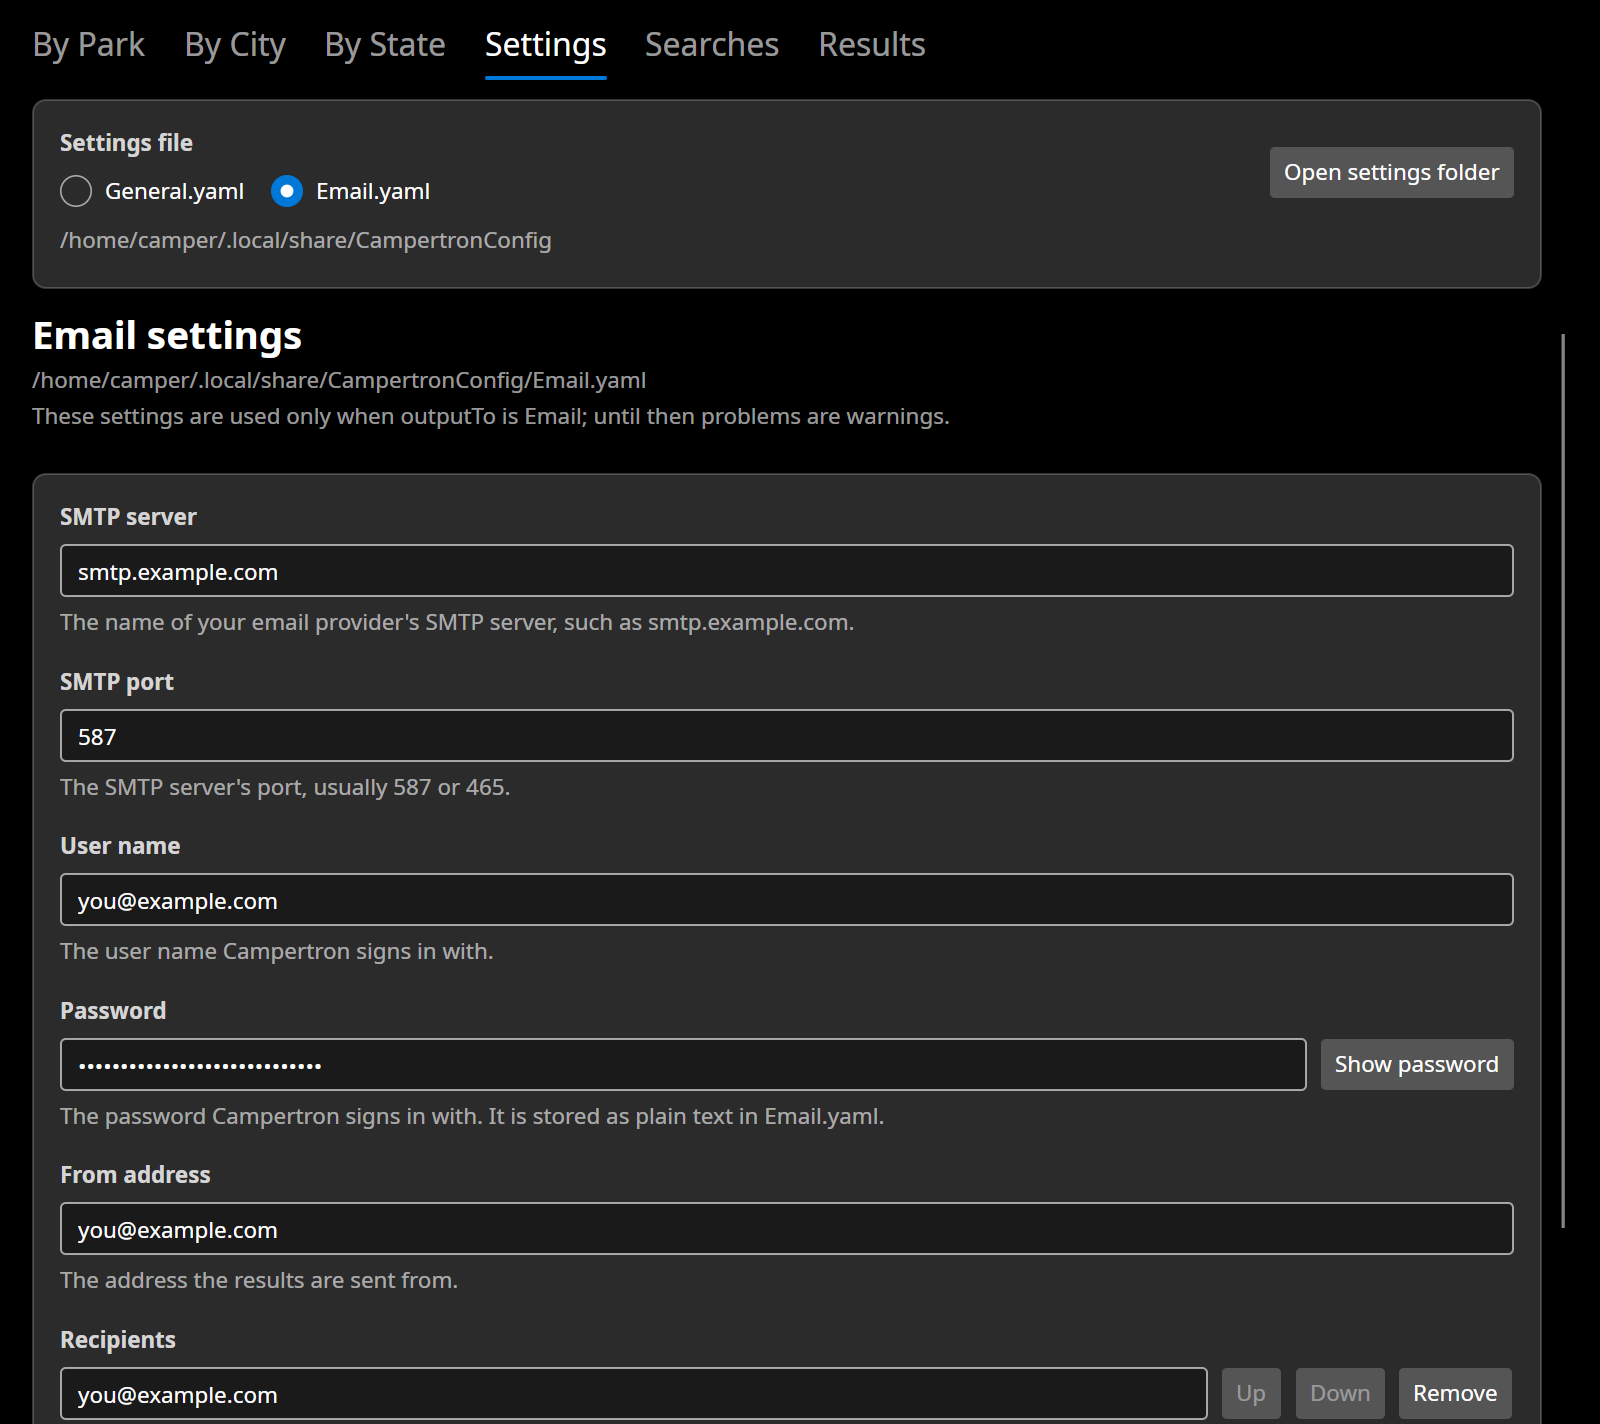
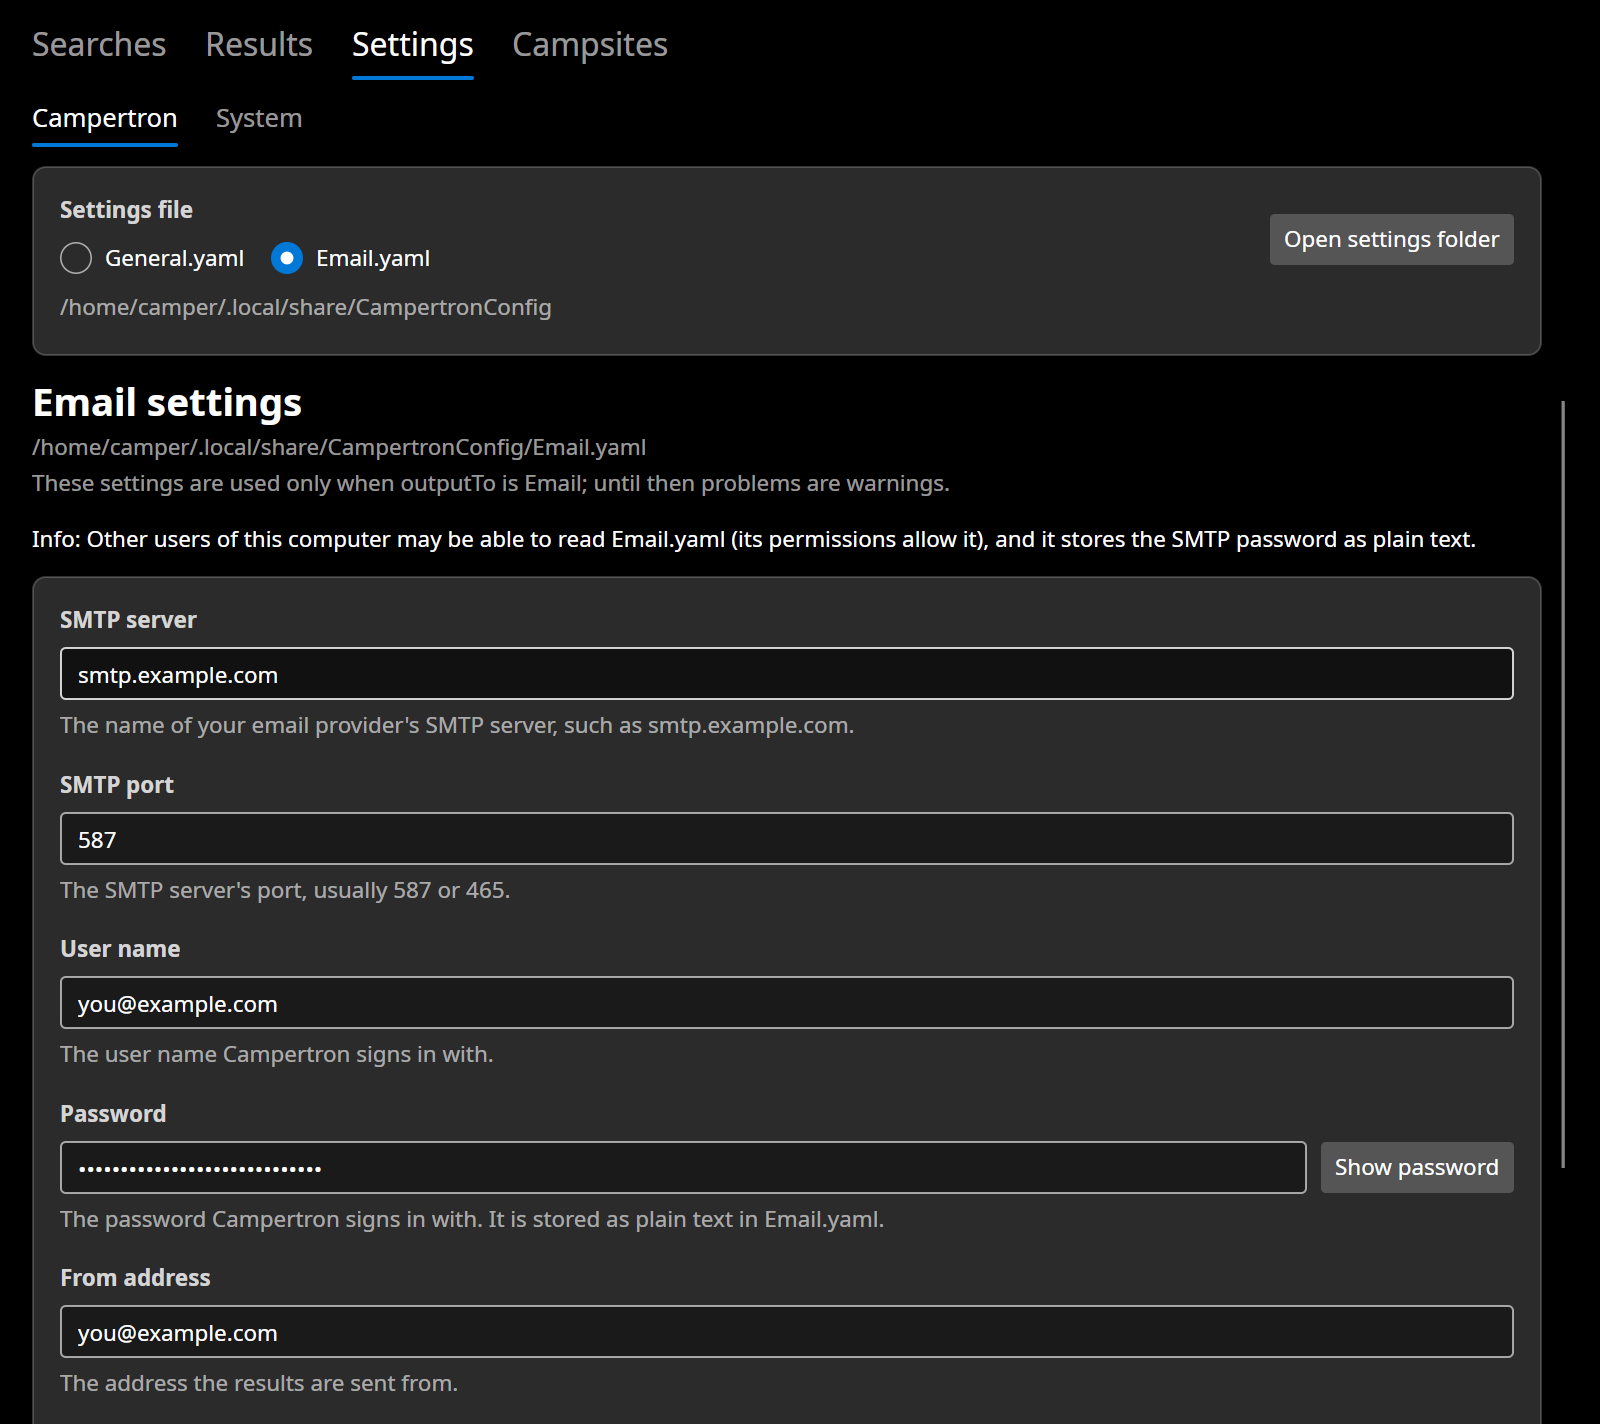
README: the four GUI tabs, Settings > System and new screenshots
The GUI section follows the window's new order: Searches (ss11), Results
(ss9), Settings > Campertron (ss10), Settings > System with the theme
(ss12, new) and Campsites > By Park (ss6). All five are real captures of the
current application at 1000x890 and scale 1.6, committed without resampling;
ss12 is cut below its card. The theme choice and where it is kept are
described, and the lookup is referred to as the Campsites tab. The pinned
preview.1 download names are unchanged.

Changed region(s): [[0.0, 0.0, 0.9688, 1.0], [0.8125, 0.7107, 0.9688, 0.7725], [0.8125, 0.8034, 0.9688, 0.8652]]

diff --git a/README.md b/README.md
@@ -56,23 +56,27 @@ With `outputTo: HtmlFile`, **Search** opens the results as one web page instead:
 
 <img src="docs/ss5.png" width="470" alt="View Config screen showing the Campertron version, the Config and Cache folders, the output type, the number of search files, how long ago the campground data was refreshed, the operating system and the .NET version">
 
-**CampertronGUI** opens on its campground lookup. Pick a park, a city or a state, then a campground, and it shows the campground's ID and details. Each campground in a list shows its location and ID, so campgrounds with the same name are easy to tell apart. The ID is what you put in a search: select it, or press **Copy ID**. In a list you can also type the first letters of a name to jump to it.
+**CampertronGUI** has four tabs: **Searches**, **Results**, **Settings** and **Campsites**. It opens on **Searches**, which lists your search files and whether each one runs, and edits them: every setting of a search, the dates and filters as lists, and the campground chosen from a list of every reservable campground (search by name, city, state, park or ID) or by its exact ID. **Create search** makes a new search from the example and **Save as** saves a copy under a new name; neither writes over an existing file, and the GUI never deletes a file.
 
-<img src="docs/ss6.png" width="800" alt="CampertronGUI in the dark theme with its six tabs By Park, By City, By State, Settings, Searches and Results. On the By Park tab, Zion National Park and WATCHMAN CAMPGROUND, SPRINGDALE, UT, ID 232445 are selected; the details show campground ID 232445 with a Copy ID button, the phone number and email address, and the start of the description">
-
-The **Settings** tab edits `General.yaml` and `Email.yaml`: it shows what each setting does and any problem, previews exactly the lines a save changes (never the password) and keeps your comments and a backup of the previous version. The email password is hidden unless you choose **Show password**.
-
-<img src="docs/ss10.png" width="800" alt="CampertronGUI in the dark theme on the Settings tab with Email.yaml selected (example values): the settings folder, then the email settings SMTP server smtp.example.com, SMTP port 587, user name, a hidden password with a Show password button, from address and one recipient, each with a short explanation">
-
-The **Searches** tab lists your search files and whether each one runs, and edits them the same way: every setting of a search, the dates and filters as lists, and the campground chosen from a list of every reservable campground (search by name, city, state, park or ID) or by its exact ID. **Create search** makes a new search from the example and **Save as** saves a copy under a new name; neither writes over an existing file, and the GUI never deletes a file.
-
-<img src="docs/ss11.png" width="800" alt="CampertronGUI in the dark theme on the Searches tab: the search files South Rim weekends.yaml (enabled), Watchman two nights.yaml (disabled) and Zion tent sites.yaml (enabled, selected), each with its name, its campground and No problems; the New search file box with the Create search button; and the start of the selected search's settings, with Run this search (autoRun) checked and the name Zion non-group tent friendly sites">
+<img src="docs/ss11.png" width="800" alt="CampertronGUI in the dark theme with its four tabs Searches (selected), Results, Settings and Campsites. The Searches tab lists the search files South Rim weekends.yaml (enabled), Watchman two nights.yaml (disabled) and Zion tent sites.yaml (enabled, selected), each with its search name, its campground and No problems; then the New search file box with the Create search button, and the start of the selected search's settings, with Run this search (autoRun) checked and the name Zion non-group tent friendly sites">
 
 The **Results** tab lists your search files with a check box each: those that run at startup are selected, the others are listed as "Not run at startup" and run only if you select them; a file that can't be searched, or that has unsaved changes in the Searches tab, says why. **Start** searches the selected files once, with the console's own search, and shows its progress; **Cancel** stops it. The results show each search's status, its counts and which months were checked (a month recreation.gov didn't answer is listed as not checked, never as fully booked), then the open sites grouped by date, or by site with their dates for consecutive nights. Choose a site to open its booking page on recreation.gov or copy its ID or link. If recreation.gov limits the requests, the search stops, keeps what it found and **Start** waits five minutes. The Results tab never changes your files, never sends email and doesn't use `Camp.History`, so it always shows every open site that matches right now.
 
-<img src="docs/ss9.png" width="800" alt="CampertronGUI in the dark theme on the Results tab after a search of the two enabled example searches: Mathers campground weekend sites is checked and Complete with 862 openings found; the status Finished: 3,443 openings found in 2 searches; the results of Zion non-group tent friendly sites with 2,581 openings at 172 campsites on 28 nights, November 2026 and December 2026 checked; Tuesday, November 17, 2026 with 64 campsites, among them sites B025 and B059 (selected) with their loop, type and equipment; and the buttons Open booking page, Copy campsite ID and Copy booking link">
+<img src="docs/ss9.png" width="800" alt="CampertronGUI in the dark theme on the Results tab after a search of the two enabled example searches: Mathers campground weekend sites is checked and Complete with 866 openings found; the status Finished: 3,436 openings found in 2 searches; the results of Zion non-group tent friendly sites, Complete with 2,570 openings at 172 campsites on 26 nights, November 2026 and December 2026 checked; Tuesday, November 17, 2026 with 62 campsites, among them sites B059 and C003 (selected) with their loop, type and equipment; and the buttons Open booking page, Copy campsite ID and Copy booking link">
 
-The GUI follows your system's light or dark theme; the screenshots show the dark theme. While it prepares its campground data (the first start unpacks it), it shows its progress; if a settings file can't be read, it shows the problem and the settings folder, and **Try again** starts again after you have fixed or deleted the file.
+**Settings** has two tabs of its own. **Campertron** edits `General.yaml` and `Email.yaml`: it shows what each setting does and any problem, previews exactly the lines a save changes (never the password) and keeps your comments and a backup of the previous version. The email password is hidden unless you choose **Show password**.
+
+<img src="docs/ss10.png" width="800" alt="CampertronGUI in the dark theme on Settings, Campertron, with Email.yaml selected (example values): the settings folder with the Open settings folder button, then the email settings SMTP server smtp.example.com, SMTP port 587, user name you@example.com, a hidden password with a Show password button and the from address, each with a short explanation">
+
+**System** chooses how the GUI looks: **System**, the default, follows your computer's light or dark setting, while **Light** and **Dark** always use that theme. Your choice applies at once and is kept for the next start in `CampertronGUI/preferences.json`, next to the settings folder (see [First start](#first-start)). It is not part of your settings files and doesn't change the console.
+
+<img src="docs/ss12.png" width="800" alt="CampertronGUI in the dark theme on Settings, System: the Theme choices System (follow the operating system's light or dark setting, the default), Light and Dark, with Dark selected; the line Campertron is shown in its Dark theme; and where the choice is saved, /home/camper/.local/share/CampertronGUI/preferences.json, apart from General.yaml, Email.yaml and the search files">
+
+**Campsites** is the campground lookup, with a tab for each way to look: **By Park**, **By City** and **By State**. Pick a park, a city or a state, then a campground, and it shows the campground's ID and details. Each campground in a list shows its location and ID, so campgrounds with the same name are easy to tell apart. The ID is what you put in a search: select it, or press **Copy ID**. In a list you can also type the first letters of a name to jump to it.
+
+<img src="docs/ss6.png" width="800" alt="CampertronGUI in the dark theme on Campsites, By Park (beside the By City and By State tabs): Zion National Park and WATCHMAN CAMPGROUND, SPRINGDALE, UT, ID 232445 are selected; the details show campground ID 232445 with a Copy ID button, the phone number and email address, and the start of the description">
+
+The screenshots show the dark theme. While the GUI prepares its campground data (the first start unpacks it), it shows its progress; if a settings file can't be read, it shows the problem and the settings folder, and **Try again** starts again after you have fixed or deleted the file.
 
 ## Download and run
 
@@ -142,7 +146,7 @@ The first time either program starts, it creates two folders for its files:
 | macOS | `~/Library/Application Support` |
 | Linux | `~/.local/share` (or `$XDG_DATA_HOME` if you set it); Campertron creates the folder if it doesn't exist yet |
 
-You can always check the exact location with **View Config** in the console menu.
+You can always check the exact location with **View Config** in the console menu. CampertronGUI also keeps its theme choice there, in its own folder `CampertronGUI` (`preferences.json`), apart from your settings.
 
 The settings folder holds:
 
@@ -164,7 +168,7 @@ In CampertronGUI:
 4. Check **Run this search (autoRun)** and choose **Save**. Only searches with `autoRun: true` are run when the console starts, and the console reads the search files when it starts.
 5. To try the search right away, open the **Results** tab, select it and choose **Start**. This works for searches that don't run at startup too, and changes nothing in the file.
 
-Or by hand: copy `ZionConfig.yaml` (or one of the [example searches](examples/0.1)) to a new file in the settings folder, for example `MyTrip.yaml`, give it a `displayName`, set `campgroundID` to the campground's ID (shown in the GUI's lookup tabs), adjust the dates and filters, and keep `autoRun: true`. Edits made in the GUI keep your comments and leave the previous version in `<name>.yaml.bak`.
+Or by hand: copy `ZionConfig.yaml` (or one of the [example searches](examples/0.1)) to a new file in the settings folder, for example `MyTrip.yaml`, give it a `displayName`, set `campgroundID` to the campground's ID (shown in the GUI's **Campsites** tab), adjust the dates and filters, and keep `autoRun: true`. Edits made in the GUI keep your comments and leave the previous version in `<name>.yaml.bak`.
 
 The [examples page](examples/0.1) explains every setting in a search file.
 
